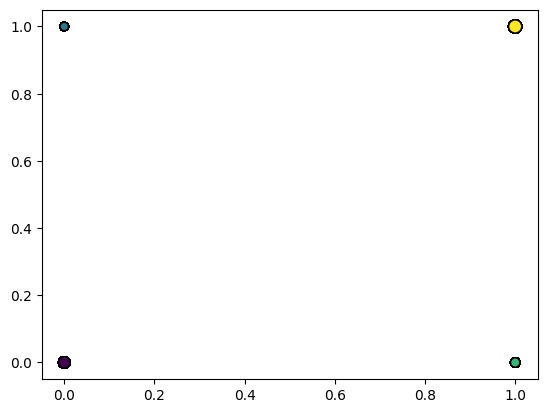
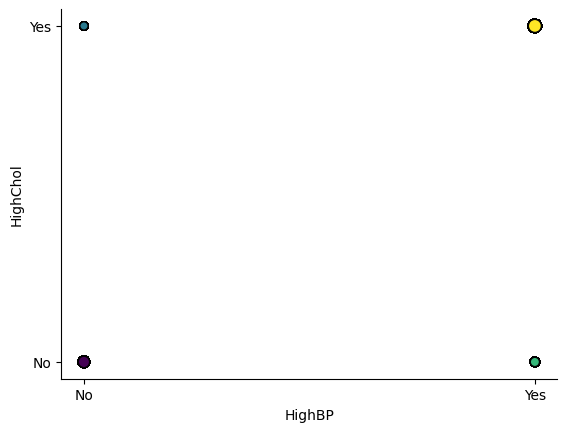
cleaned up captions and takeaway

diff --git a/_posts/2025-05-30-CDCdiabetes-survey-gaussian-svm.md b/_posts/2025-05-30-CDCdiabetes-survey-gaussian-svm.md
@@ -171,9 +171,9 @@ One repeats the same procedure as above multiple times, but each time we remove 
 
 With the five features in the data found above, `GenHlth`, `HighBP`, `BMI`, `HighChol`, and `Age`, the next step was to determine an optimal set of hyperparameters for the Gaussian kernel support vector machine. Using the `SVC` class from the scikit-learn module, I performed a grid search with two hyperparameters, $$\gamma$$ and $$C$$. 
 
-The hyperparameter $$\gamma$$ is the one that appears in the kernel $$K(x,x')$$ of the last section. Considering how $$K$$ is a Gaussian function, in the same form as a normal distribution function, $$\gamma$$ would be inversely proportional to the variance.  Hence, the Gaussian summands $$K(x,x_{i_j})$$ that are centered at a support vector have smaller variance when $$\gamma$$ is increased (_variance_ here being the $$\sigma^2$$ of the normal distribution, not Variance as in the Bias-Variance trade-off).  As a consequence, increasing $$\gamma$$ results in a model which may more easily overfit the data.<d-footnote>That is, increasing $\gamma$ produces a **model** Variance that is higher &ndash; here it _does_ mean Variance from the Bias-Variance trade-off.</d-footnote>
+The hyperparameter $$\gamma$$ is the one that appears in the kernel $$K(x,x')$$ of the last section. Considering how $$K$$ is a Gaussian function, in the same form as a normal distribution function, $$\gamma$$ would be inversely proportional to the variance.  Hence, the Gaussian summands $$K(x,x_{i_j})$$ that are centered at a support vector have smaller variance when $$\gamma$$ is increased (_variance_ here being the $$\sigma^2$$ of the normal distribution, not Variance as in the Bias-Variance trade-off).  As a consequence, increasing $$\gamma$$ results in a model which may more easily overfit the data.<d-footnote>That is, increasing $\gamma$ produces a <b>model</b> Variance that is higher &ndash; here it _does_ mean Variance from the Bias-Variance trade-off.</d-footnote>
 
-The hyperparameter $$C$$ relates to weight regularization of the model.  Specifically, for a set of weights $$\theta$$, the objective function will be set equal to $$\frac12\lVert\theta\rVert^2 + C\mathcal L_{train}(\theta)$$, with $$\mathcal L_{train}$$ being the standard (non-regularized) loss function, averaged over the training data.  For example, with a two-label classification, say that we use $$f_{\theta}(x)$$ for the number $$\Sigma_{j=1}^k\alpha_j K(x, x_{i_j})$$<d-footnote>This is the ubiquitous affine function $v\mapsto Wv+b$ being applied to the image $\Phi(x)$ in $\mathbb H$.</d-footnote> and $$\sigma$$ for the logistic function, then the standard loss is the log-loss (or _binary cross-entropy_).<d-footnote>Given an example $$x_i$$, the per-example loss of this function is $$-\log(\sigma(f_{\theta}(x_i)))$$ when $$y_i$$ is positive and $$-\log(\sigma(1 - f_{\theta}(x_i)))$$ when $$y_i$$ is negative.</d-footnote>
+The hyperparameter $$C$$ relates to weight regularization of the model.  Specifically, for a set of weights $$\theta$$, the objective function will be set equal to $$\frac12\lVert\theta\rVert^2 + C\mathcal L_{train}(\theta)$$, with $$\mathcal L_{train}$$ being the standard (non-regularized) loss function, averaged over the training data.  For example, with a two-label classification, say that we use $$f_{\theta}(x)$$ for the number $$\Sigma_{j=1}^k\alpha_j K(x, x_{i_j})$$<d-footnote>This is the ubiquitous affine function $v\mapsto Wv+b$ being applied to the image $\Phi(x)$ in $\mathbb H$.</d-footnote> and $$\sigma$$ for the logistic function, then the standard loss is the log-loss (or _binary cross-entropy_).<d-footnote>Given an example $x_i$, the per-example loss of this function is $-\log(\sigma(f_{\theta}(x_i)))$ when $y_i$ is positive and $-\log(\sigma(1 - f_{\theta}(x_i)))$ when $y_i$ is negative.</d-footnote>
 
 An increase in $$C$$ causes larger values of $$\mathcal L_{train}(\theta)$$ to have an increased effect on the value of the objective function.  That means that updates in weights will be more targeted to lower the value of $$\mathcal L_{train}(\theta)$$ (prioritizing labeling every training point more accurately), perhaps at the expense of keeping model weights small.  The tendency to do this is the classical cause of overfitting to the data. So, increases in $$C$$ will make the model more likely to overfit.
 
@@ -189,12 +189,14 @@ In our Gaussian SVM model we used five of the 21 variables &ndash; `GenHlth`, `H
 Earlier in the discussion, we pointed out that one can look only at the binary variables and get $$72.8\ \%$$ accuracy on test data simply by looking at those training data which had the same binary answers, and using what target label was given to most of those.  That is, including the non-binary features only produced between a $$1$$ and $$1.5\ \%$$ improvement.  In fact, `HighBP` and `HighChol` were the only binary features in the five used for the SVM. With the same decision tree method as before, a check shows that you get $$69\ \%$$ accuracy (and recall of $$0.75$$) with just these two variables. 
 
 <div class="row mt-3">
-  <div class="col-sm mt-3 mt-sm-0">
-    {% include figure.liquid loading="eager" path="assets/img/svm-blog.5-30/simple_twovar.png" class="img-fluid rounded z-depth-1" zoomable=true %}
+  <div class="col-sm mt-3 mt-md-0">
+    {% include figure.liquid loading="eager" path="assets/img/svm-blog.5-30/simple_twovar.png" max-width="100px" class="img-fluid rounded z-depth-1" zoomable=true %}
   </div>
 </div>
 <div class="caption">
-  A plot of the pairs of answers in columns (`HighBP`, `HighChol`), colored according to the percentage of data, at that pair, where the label was diabetic/pre-diabetic (low to high percentage is from dark purple to yellow). The percentage at the point $$(1,0)$$ is $$55\ \%$$.
+  A plot of the pairs of answers in columns (`HighBP`, `HighChol`), colored according to the percentage of data, at that pair, where the label was diabetic/pre-diabetic (low to high percentage is from dark purple to yellow).
 </div>
 
-The horizontal coordinate is `HighBP` in the above figure. So, in short, if respondent has been told before that they have high blood pressure, predict diabetes or pre-diabetes (see the caption of the figure). Doing this will be right $$69\ \%$$ of the time; the more complicated Gaussian SVM model has a $$5\ \%$$ improvement in accuracy from that.
+The percentage of points with diabetic/pre-diabetic label was $$55\ \%$$, from those which had responses (`Yes`, `No`); it was above $$75\ \%$$ from those with responses (`Yes`, `Yes`). So, in short, if respondent has been told before that they have high blood pressure, predict diabetes or pre-diabetes; if they haven't, predict no diabetes. From this data, doing this will be right $$69\ \%$$ of the time; the more complicated Gaussian SVM model has a $$5\ \%$$ improvement in accuracy from that.
+
+From all of this, I'm inclined to say that this data set (the derived one from the UCI library and Kaggle) simply does not have a good mix of information to be insightful for diabetes prediction, especially if the diabetic and pre-diabetic categories are fused.
